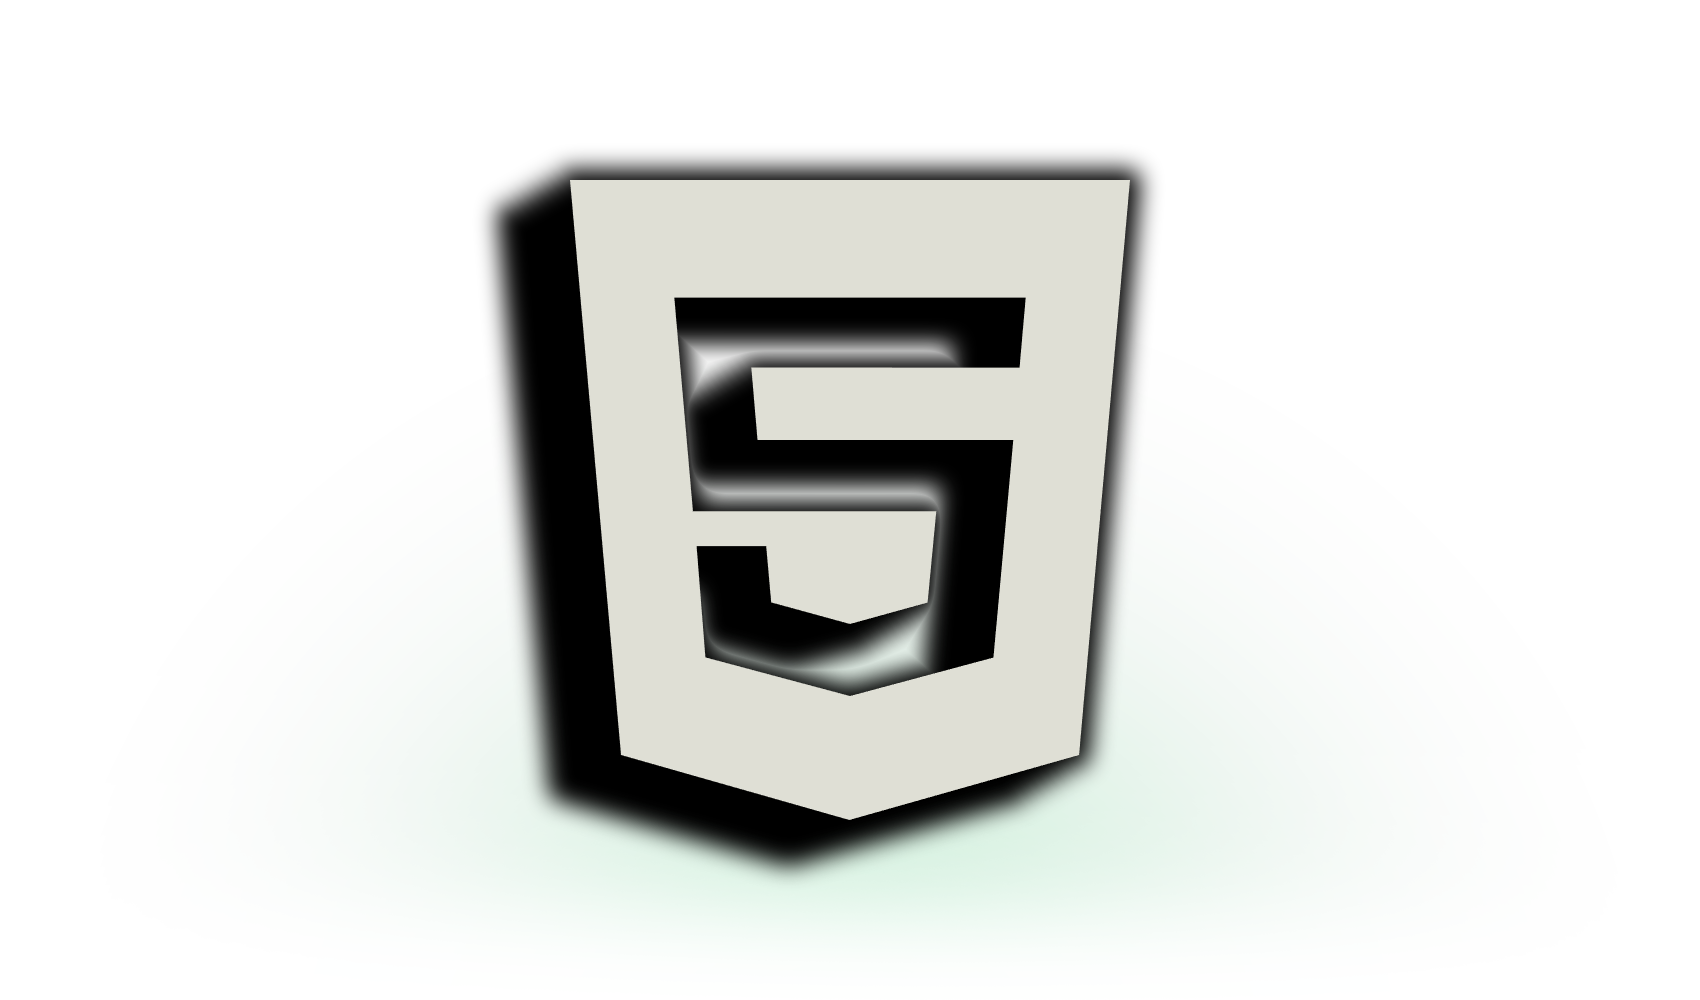
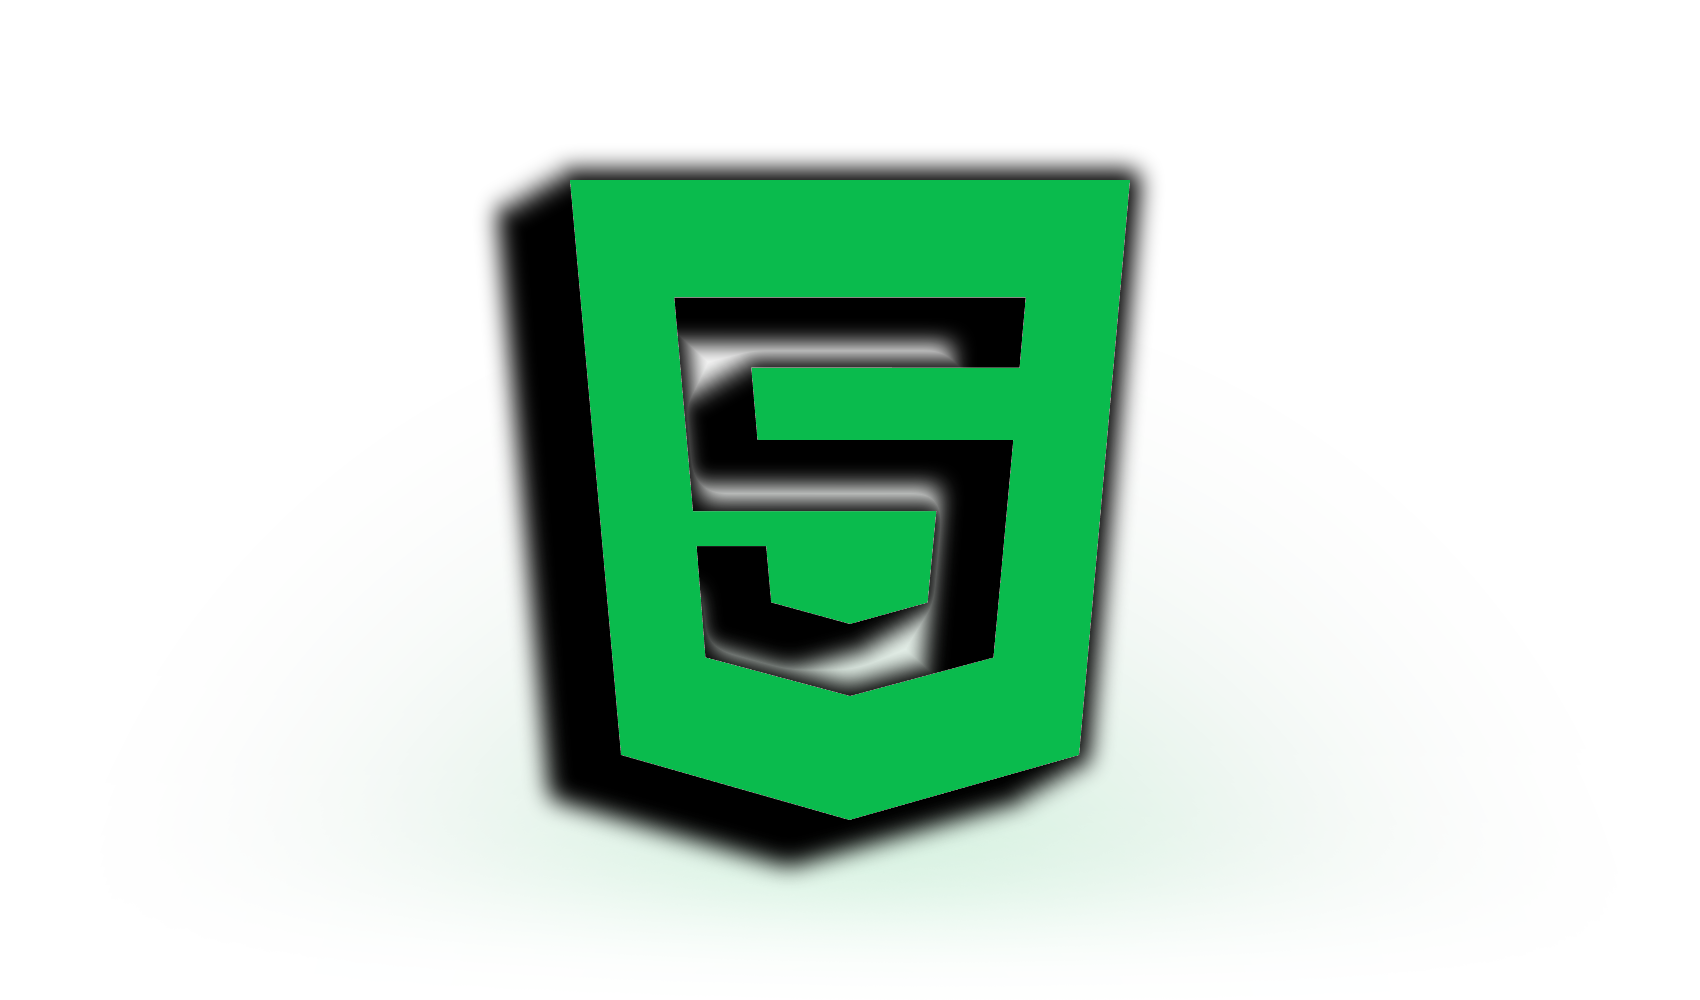
rediseno colores y responsive movil

Changed region(s): [[0.3118, 0.155, 0.6859, 0.837]]

diff --git a/style/style_header.css b/style/style_header.css
@@ -312,42 +312,42 @@ header {
     0% {
         transform: scale(1);
         opacity: 0.8;
-        filter: drop-shadow(0px 0px 15px rgba(10, 186, 77, 0));
+        filter: drop-shadow(0px 0px 15px rgba(120, 197, 149, 0));
     }
 
     30% {
         transform: scale(1);
         opacity: 0.8;
-        filter: drop-shadow(0px 0px 15px rgba(10, 186, 77, 0));
+        filter: drop-shadow(0px 0px 15px rgba(120, 197, 149, 0));
     }
 
     40% {
         transform: scale(1.2);
         opacity: 1;
-        filter: drop-shadow(0px 0px 15px rgba(10, 186, 77, 0.6));
+        filter: drop-shadow(0px 0px 15px rgba(10, 186, 77, 0.4)) blur(1px);
     }
 
     50% {
         transform: scale(1);
         opacity: 0.8;
-        filter: drop-shadow(0px 0px 15px rgba(10, 186, 77, 0));
+        filter: drop-shadow(0px 0px 15px rgba(120, 197, 149, 0));
     }
 
     60% {
         transform: scale(1.2);
         opacity: 1;
-        filter: drop-shadow(0px 0px 15px rgba(10, 186, 77, 0.6));
+        filter: drop-shadow(0px 0px 15px rgba(10, 186, 77, 0.6)) blur(1px);
     }
 
     70% {
         transform: scale(1);
         opacity: 0.8;
-        filter: drop-shadow(0px 0px 15px rgba(10, 186, 77, 0));
+        filter: drop-shadow(0px 0px 15px rgba(120, 197, 149, 0));
     }
 
     100% {
         transform: scale(1);
         opacity: 0.8;
-        filter: drop-shadow(0px 0px 15px rgba(10, 186, 77, 0));
+        filter: drop-shadow(0px 0px 15px rgba(120, 197, 149, 0));
     }
 }

diff --git a/style/style_header_movil.css b/style/style_header_movil.css
@@ -69,8 +69,8 @@
     }
 
     .img-container img {
-        width: 50vw;
-        margin: 0 0 0 5%;
+        width: 60vw;
+        margin: 0 0 0 20%;
     }
 
     .img-perfil {
@@ -81,7 +81,7 @@
 
     .codigo-container {
         width: 60%;
-        margin: 4vw 0 0 -30%;
+        margin: 4vw 0 0 -20%;
     }
 
     #codigo {
@@ -99,7 +99,8 @@
         display: flex;
         flex-direction: column;
         gap: 20vw;
-        margin: 50% 15% 0 -45%;
+        margin: 150% 15% 0 -45%;
+        align-self: flex-start;
     }
 
 
@@ -113,6 +114,9 @@
     }
 
     #contacto img {
+        position: absolute;
+        bottom: 30;
+        left: -90%;
         width: 10vw;
         height: auto;
     }

diff --git a/style/style_main.css b/style/style_main.css
@@ -44,14 +44,14 @@
 #proyectosTitulo {
     margin: 10vw auto 0 auto;
     text-align: center;
-    color: rgb(10, 187, 77);
+    color: #dfdfd5;
     font-size: 7vw;
 
 }
 
 #proyectosTitulo::after {
     content: "|";
-    -webkit-text-fill-color: rgb(201, 202, 201);
+    -webkit-text-fill-color: rgb(10, 187, 77);
     animation: animacionCursor 1s infinite;
 }
 

diff --git a/style/style_main_movil.css b/style/style_main_movil.css
@@ -10,7 +10,7 @@
     #proyecto-carrusel {
         margin: 10% auto 0 auto;
         width: 80%;
-        height: 90vw;
+        height: 110vw;
         gap: 3.5%;
     }
 
